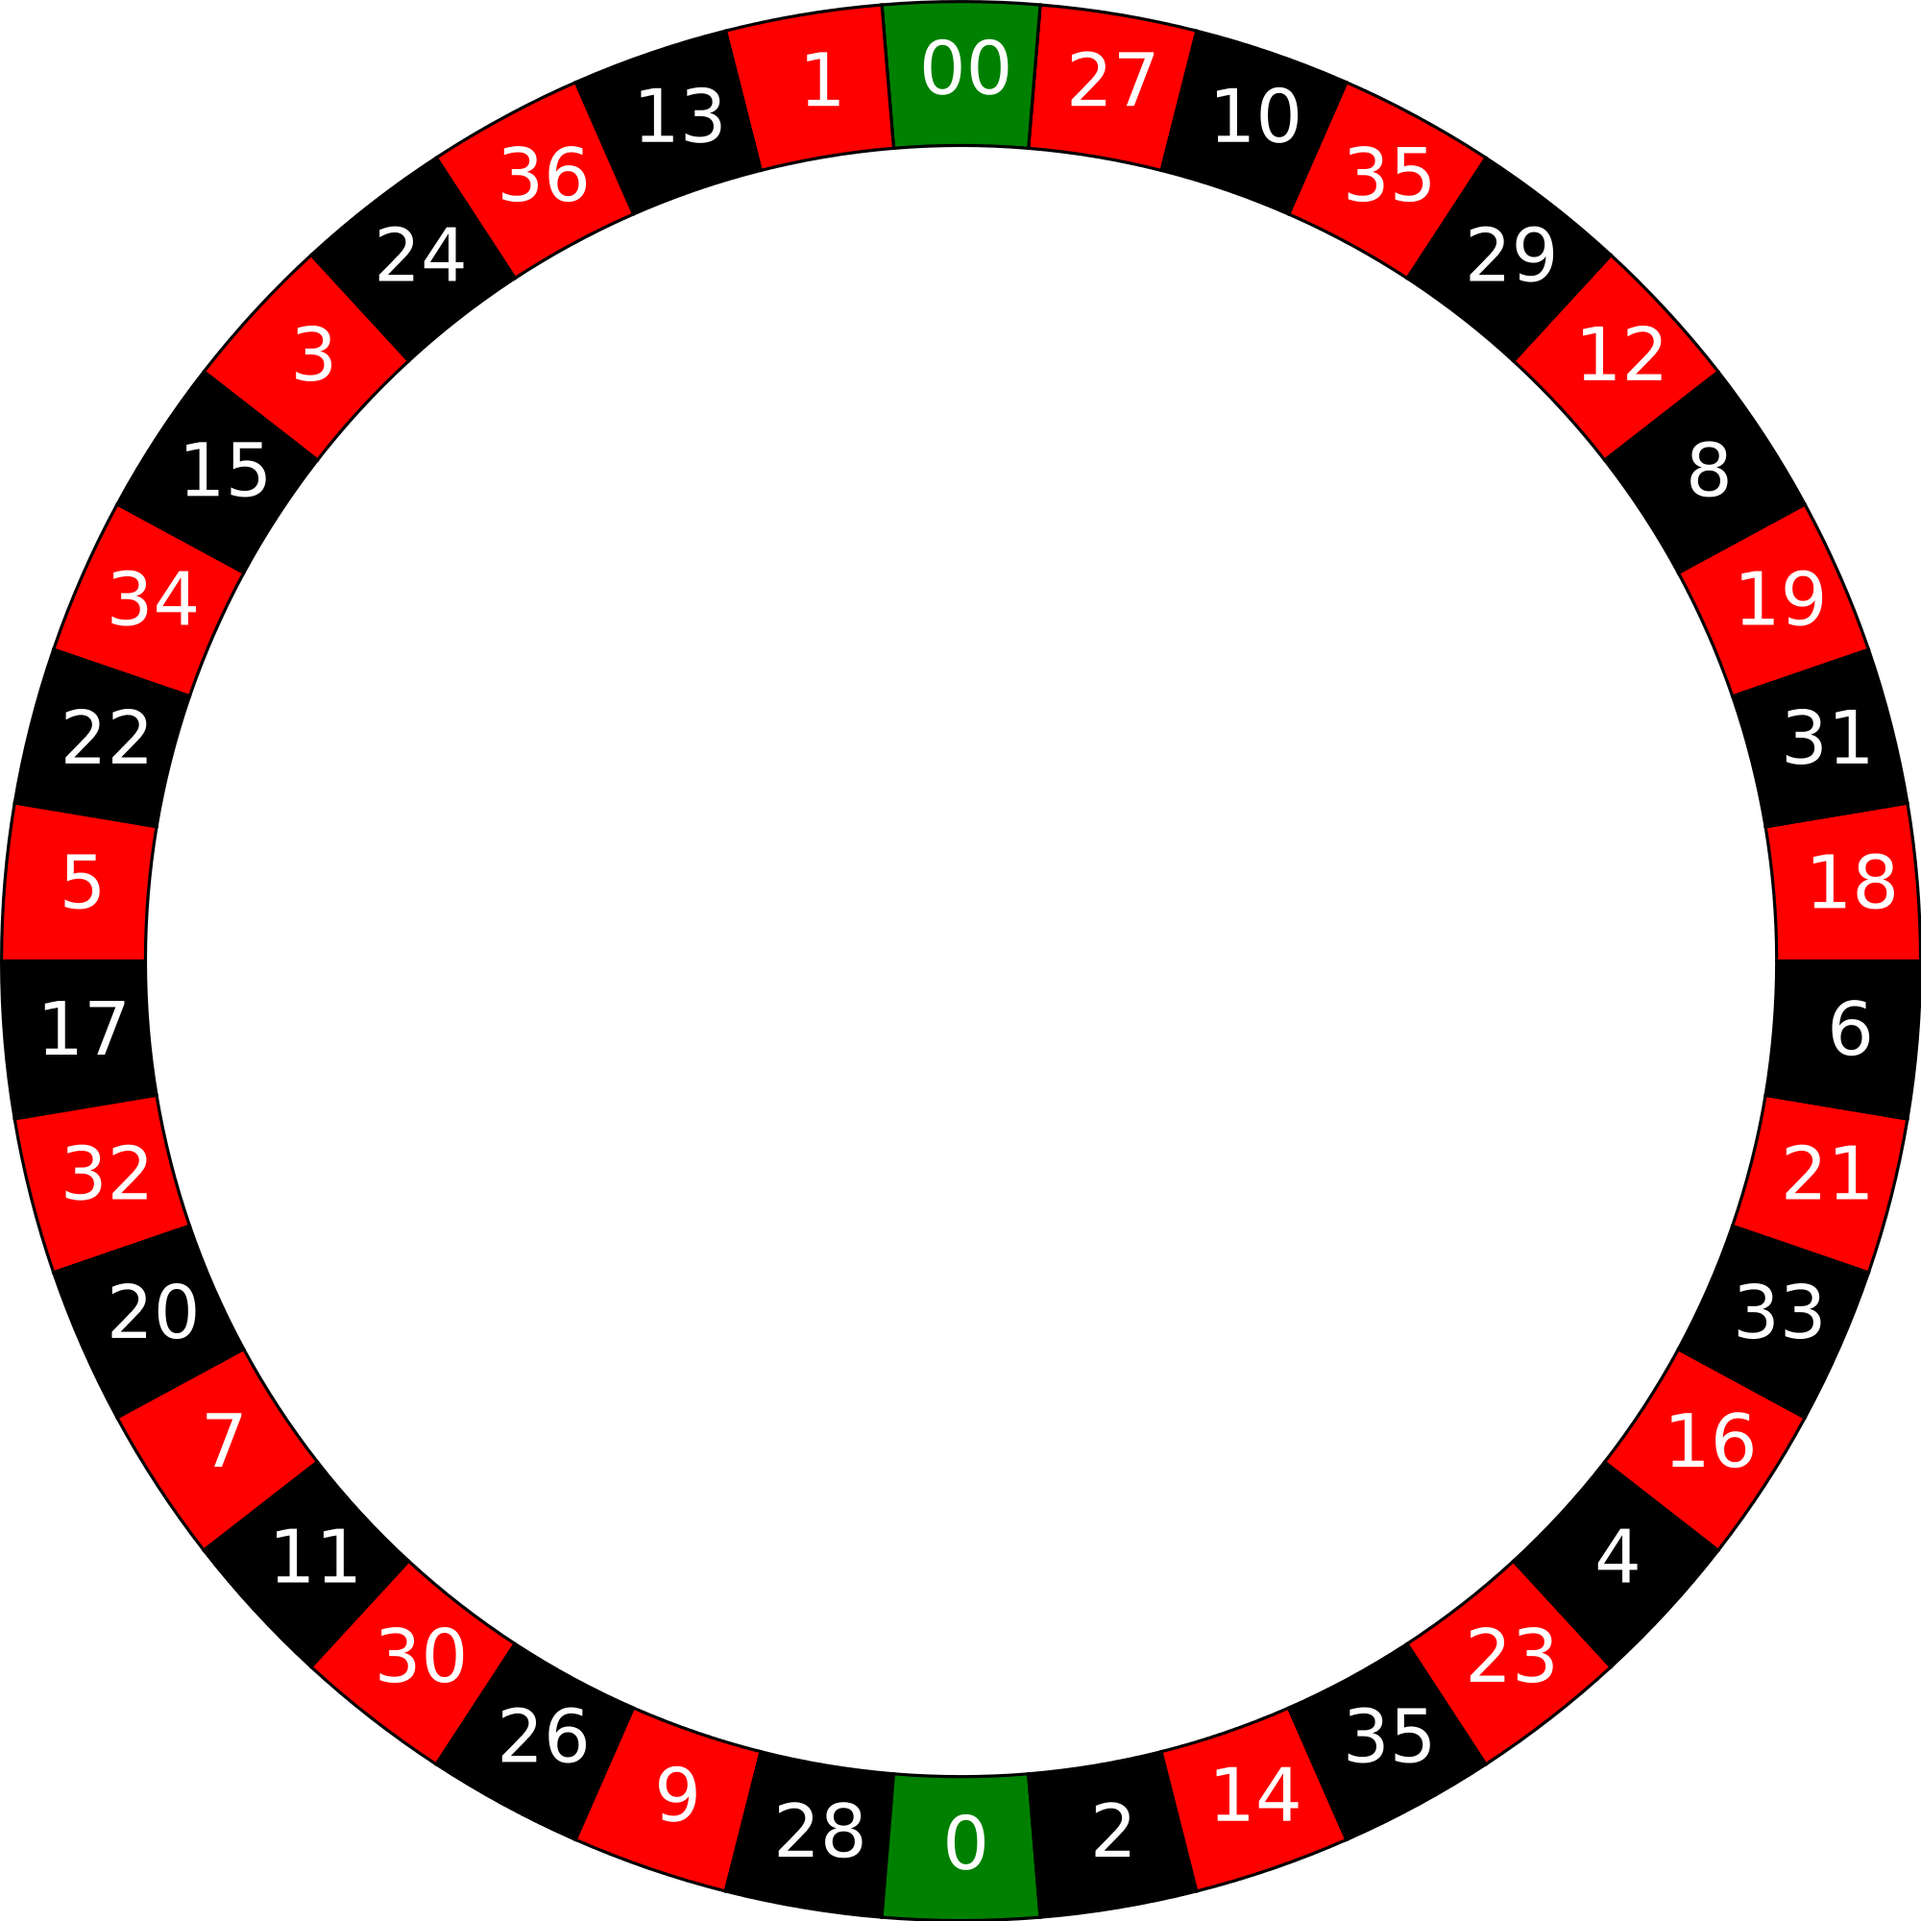
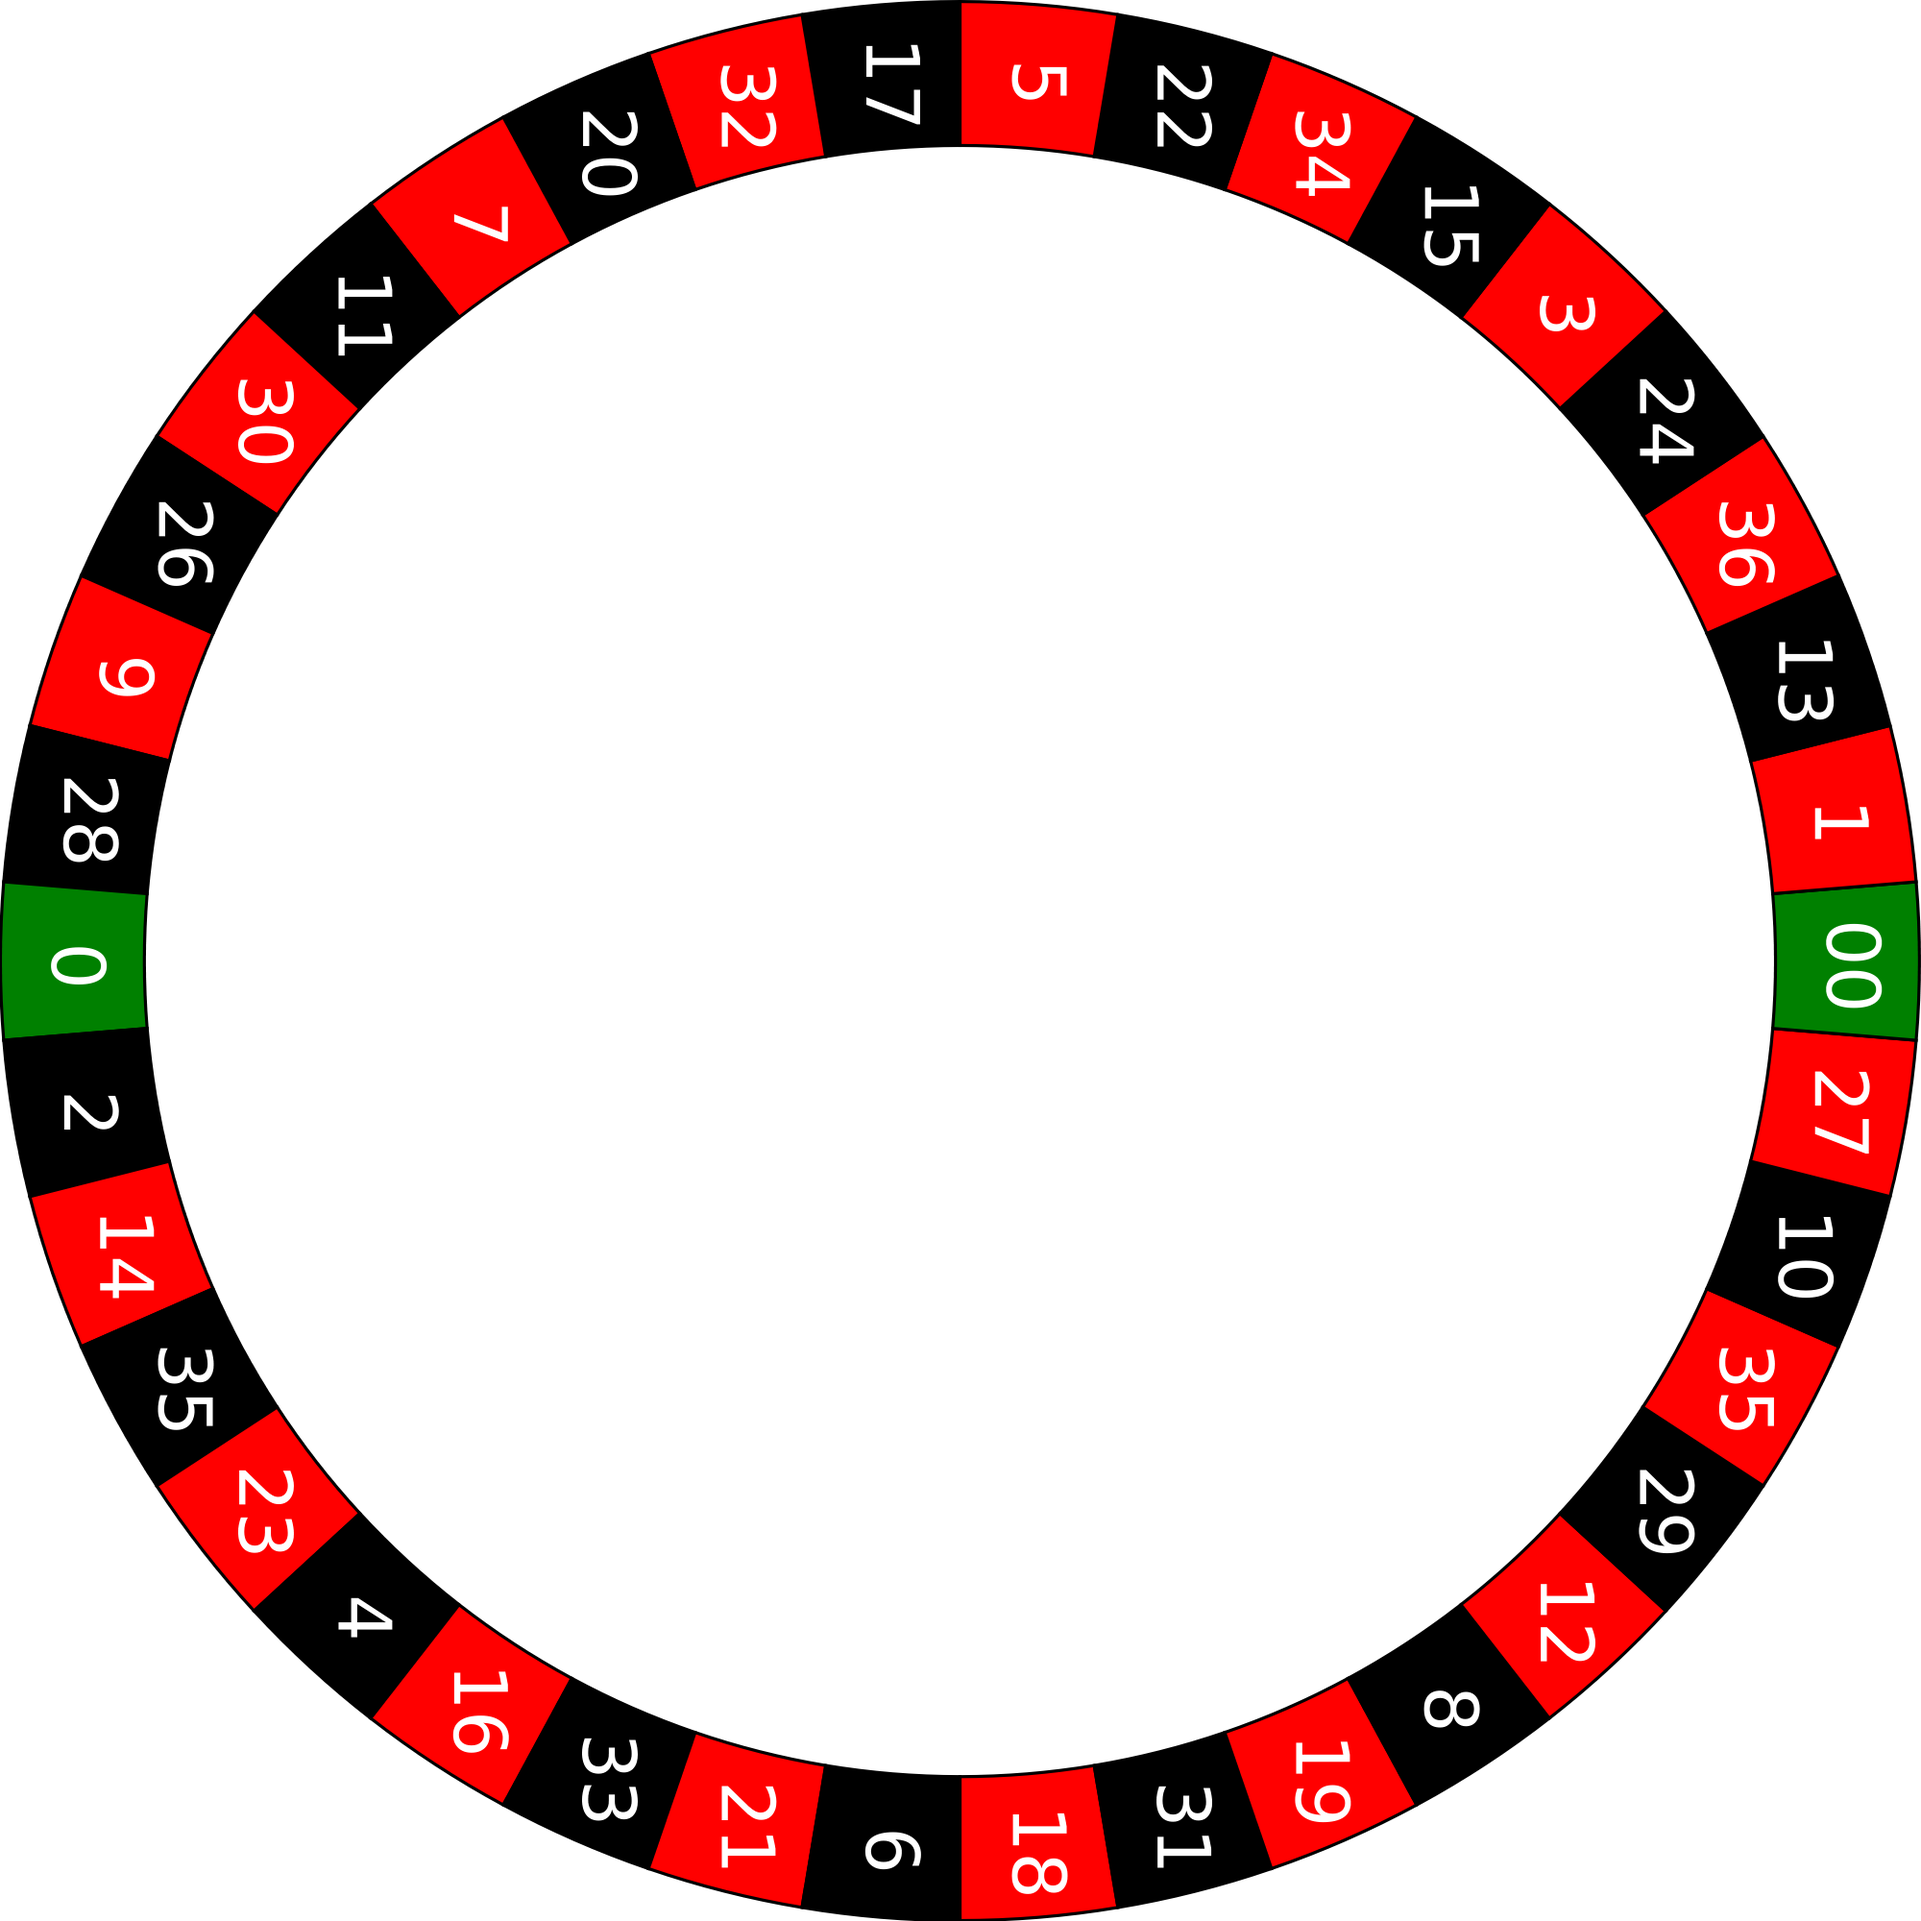
ruletta getur nu snuid

Changed region(s): [[0.0, 0.0, 1.0, 1.0]]

diff --git a/src/main/java/hi/verkefni/vidmot/RouletteController.java b/src/main/java/hi/verkefni/vidmot/RouletteController.java
@@ -1,9 +1,23 @@
 package hi.verkefni.vidmot;
 
+import javafx.animation.KeyFrame;
+import javafx.animation.Timeline;
 import javafx.fxml.FXML;
+import javafx.fxml.Initializable;
 import javafx.scene.control.Button;
 import javafx.scene.image.ImageView;
-public class RouletteController {
+import javafx.scene.layout.Pane;
+import javafx.scene.paint.Color;
+import javafx.scene.shape.Polygon;
+import javafx.util.Duration;
+
+import java.net.URL;
+import java.util.ResourceBundle;
+import java.util.concurrent.atomic.AtomicReference;
+
+public class RouletteController implements Initializable {
+
+    //TODO hægt að setja getNumber í sér klasa
 
     @FXML
     private Button fxSpinButton;
@@ -11,17 +25,82 @@ public class RouletteController {
     @FXML
     private ImageView fxRouletteImage;
 
+    private Timeline timeline;
+
+    @FXML
+    private Pane fxPane;
+
+
+    // Offset = -2.6 gradur
+    // Þ.e. 00 er i -2.6 gradum
+
+    // -1 taknar 00
+    private int[] numbers = {-1, 27, 10, 35, 29, 12, 8, 19, 31, 18, 6, 21, 33, 16, 4, 23, 35, 14, 2, 0, 28, 9, 26, 30, 11, 7, 20, 32, 17, 5, 22, 34, 15, 3, 24, 36, 13, 1};
+
 
     public void spin() throws InterruptedException {
 
+        // Horn eru í gráðum
+        double doubleInitialVelocity = Math.round((Math.random()*10.0 + 5)*100.0)/100.0;
 
-        double initialVelocity = Math.random()*10.0;
+        //Math.round(x*100.0)/100.0 gefur 2 aukastafi
 
-        while (initialVelocity > 0.0) {
-            System.out.println(initialVelocity);
-            fxRouletteImage.setRotate(fxRouletteImage.getRotate() + initialVelocity);
-            initialVelocity -= 0.002;
-            Thread.sleep(20);
+        AtomicReference<Double> initialVelocity = new AtomicReference<>(doubleInitialVelocity); // gradur/sek
+        KeyFrame keyFrame = new KeyFrame(Duration.millis(10),
+                e -> {
+                    fxRouletteImage.setRotate(fxRouletteImage.getRotate() + initialVelocity.get());
+                    initialVelocity.updateAndGet(v -> new Double((double) (v - 0.01)));
+                });
+
+        System.out.println(initialVelocity);
+
+        timeline = new Timeline(keyFrame);
+        timeline.setCycleCount((int) doubleInitialVelocity*100);
+        timeline.play();
+
+        timeline.setOnFinished(e ->
+                {
+                    System.out.println(getnumber());
+                }
+                );
+
+    }
+
+    @Override
+    public void initialize(URL url, ResourceBundle resourceBundle) {
+        fxRouletteImage.setRotate(Math.random()*360);
+        System.out.println(fxRouletteImage.getRotate());
+
+        System.out.println(getnumber());
+
+        Polygon triangle = new Polygon();
+
+        double initialX = 175.0;
+        double initialY = 24.0;
+        double length = 10;
+        triangle.getPoints().setAll(
+                initialX-length, initialY,
+                initialX+length, initialY,
+                initialX, initialY+length
+        );
+        triangle.setFill(Color.BLUE);
+        fxPane.getChildren().add(triangle);
+
+    }
+
+    public int getnumber() {
+        double angle = fxRouletteImage.getRotate() % 360;
+
+        double angleOfNumber = 360 - angle;
+
+        double offSet = -2.6;
+        double step = 360/38.0; // Gradur sem hver tala tekur
+
+        int iterator = 0;
+
+        while(iterator*step - offSet < angleOfNumber) {
+            iterator++;
         }
+        return numbers[iterator];
     }
 }
